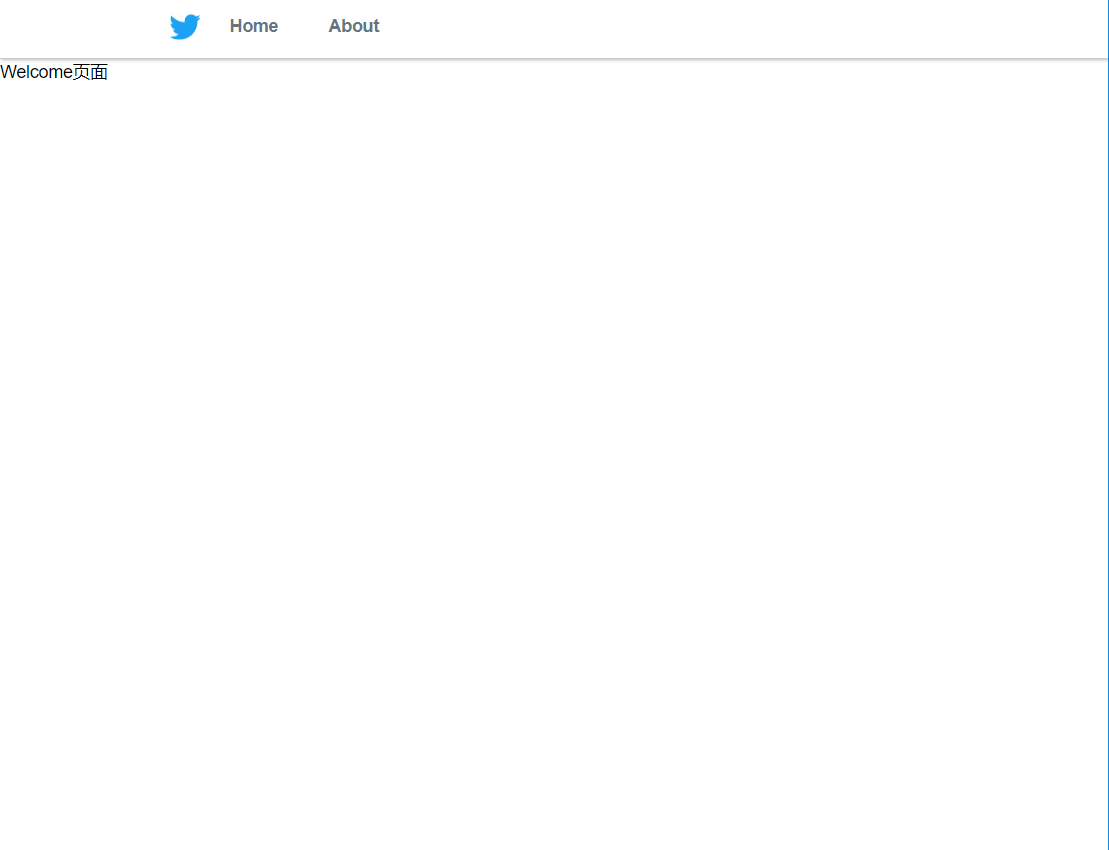
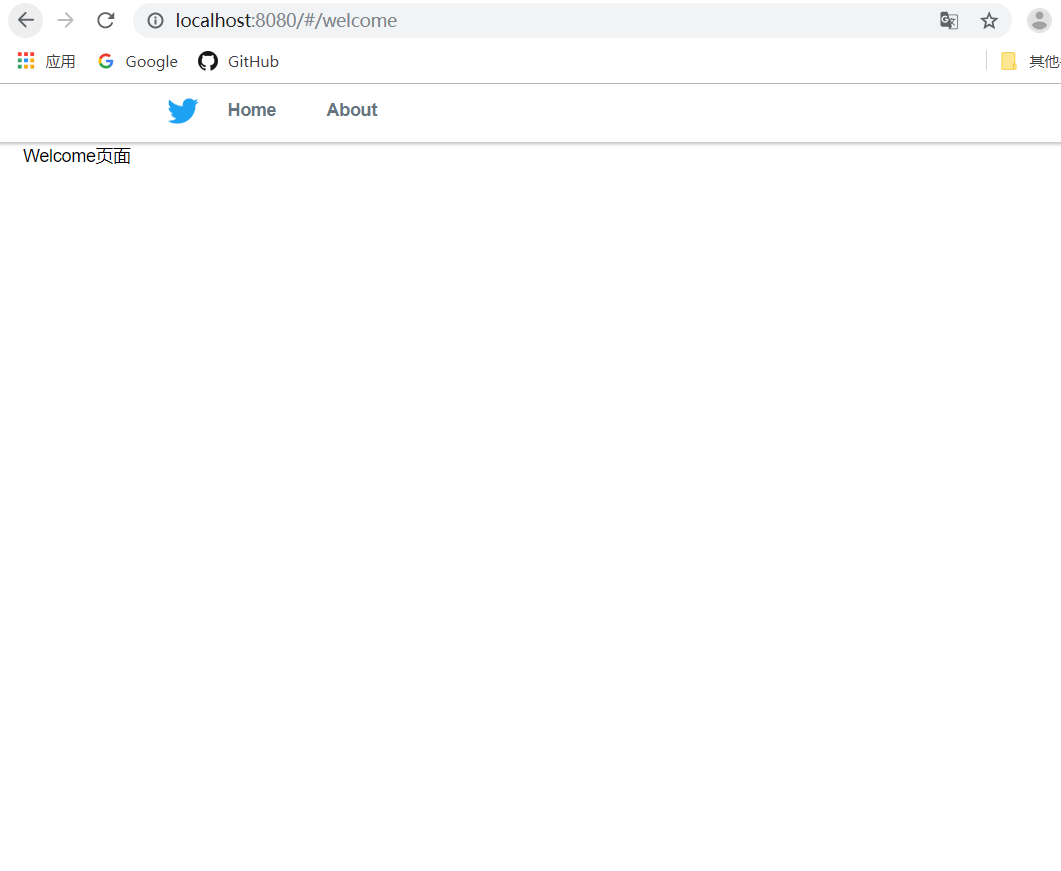
s

diff --git a/src/views/indexPage/Index.vue b/src/views/indexPage/Index.vue
@@ -13,4 +13,7 @@ export default class extends Vue {
 }
 </script>
 <style lang="scss" scoped>
+div{
+  margin-left: 20px;
+}
 </style>
